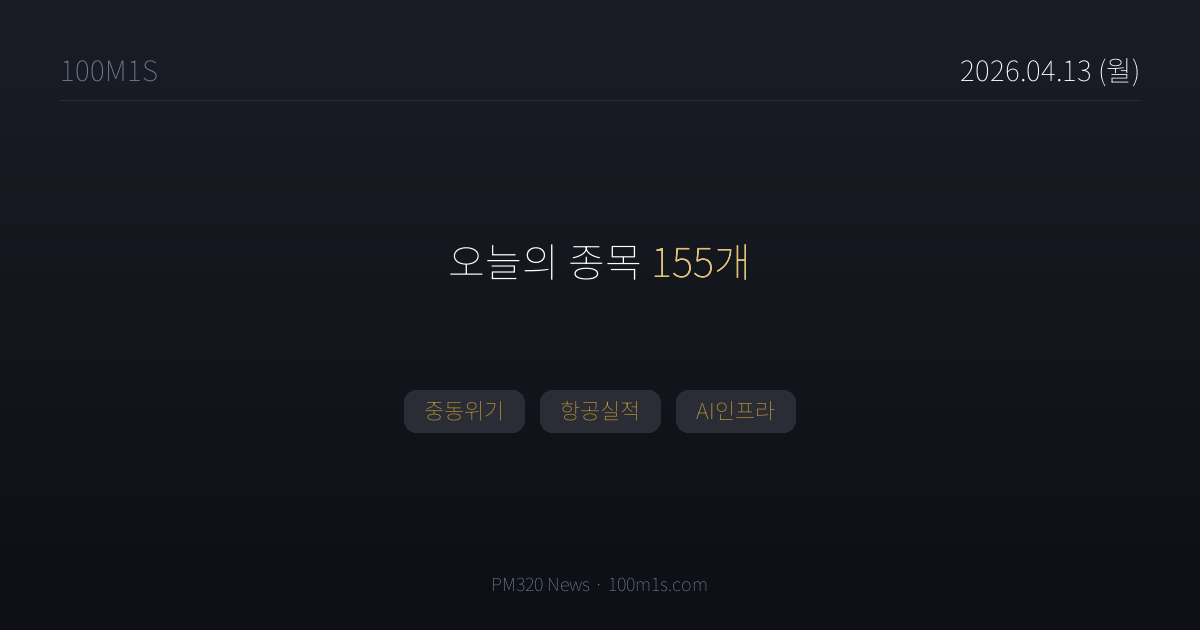
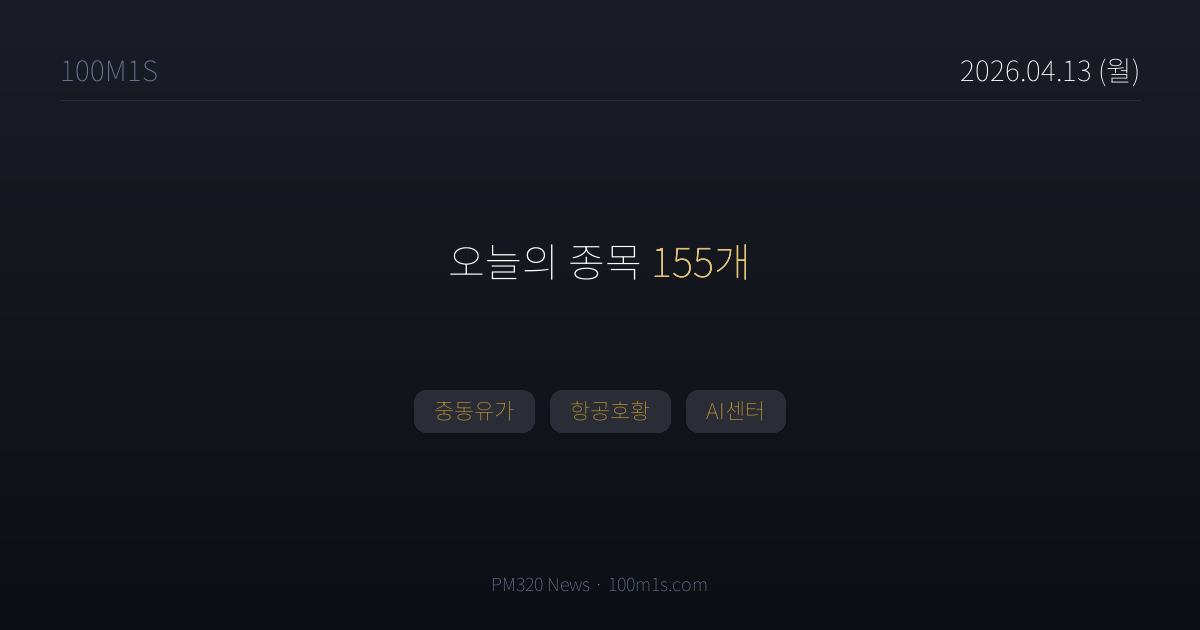
chore(news): 2026-04-13T18:45 pipeline

Changed region(s): [[0.3392, 0.6032, 0.6783, 0.6937]]

diff --git a/news/2026-04-13.html b/news/2026-04-13.html
@@ -4,7 +4,7 @@
 <meta charset="UTF-8">
 <title>4월 13일 (월) 뉴스 — 100M1S</title>
 <meta property="og:title" content="4월 13일 (월) · 종목 155개">
-<meta property="og:description" content="중동위기, 항공실적, AI인프라">
+<meta property="og:description" content="중동유가, 항공호황, AI센터">
 <meta property="og:image" content="https://100m1s.com/og/2026-04-13.png">
 <meta property="og:image:width" content="1200">
 <meta property="og:image:height" content="630">
